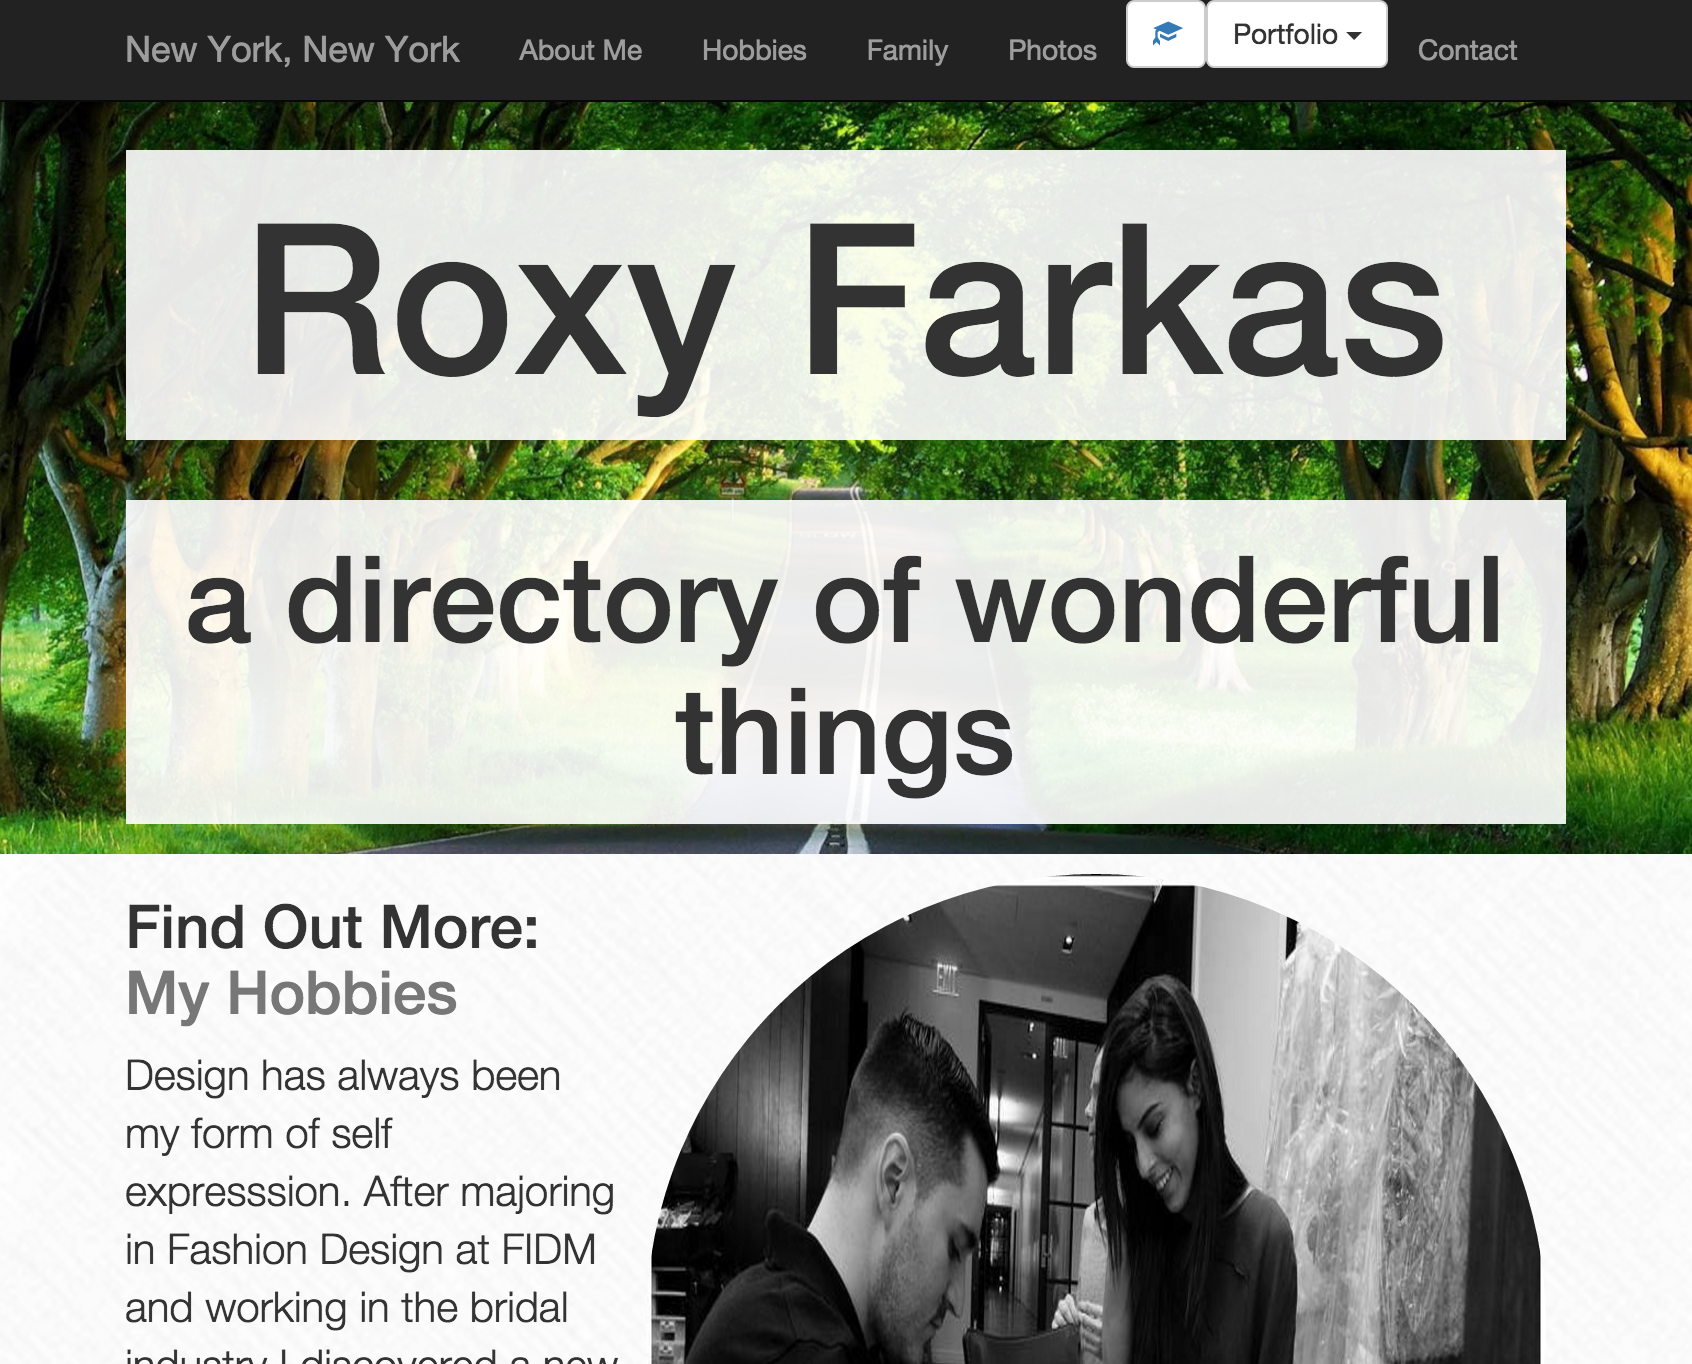
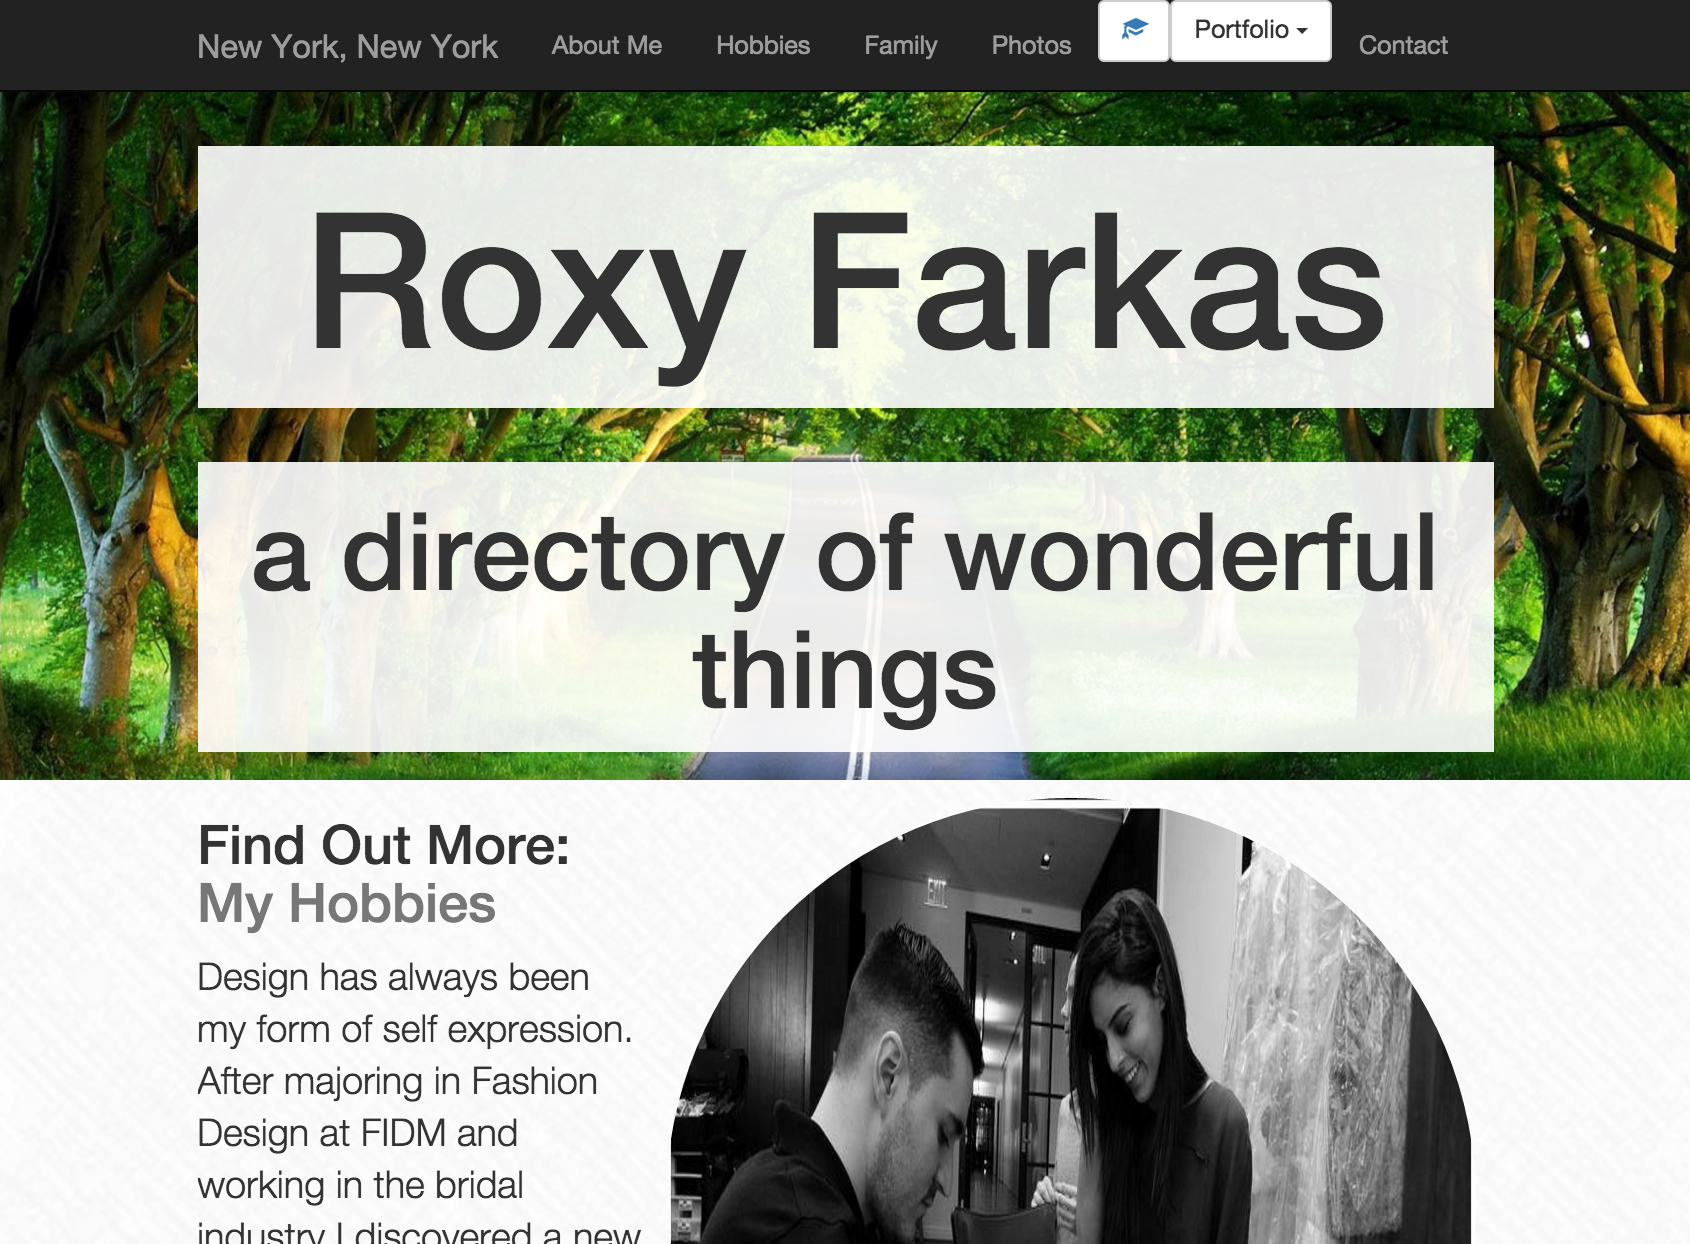
AJs Corrections for spelling

diff --git a/index.html b/index.html
@@ -264,8 +264,8 @@
 							<div class="iconboxleft-text">
 								<h3 class="iconboxleft-title">Education</h3>
 								<div class="iconboxleft-desc">
-									Fashion Institute of Design and Merchandising - A.A <br>
-									Fordham University Lincoln Center-B.A
+									Fashion Institute of Design and Merchandising - A.A. <br>
+									Fordham University Lincoln Center-B.A.
 								</div>
 							</div>
 						</div>
@@ -301,7 +301,7 @@
 							<div class="iconboxleft-text">
 								<h3 class="iconboxleft-title">Design</h3>
 								<div class="iconboxleft-desc">
-									My background in design allows me to approach the creative process in a unique way, with beautiful designs created to provide the most optimal user experience.
+									My background in design allows me to approach the creative process in a unique way, with beautiful designs created to provide the optimal user experience.
 								</div>
 							</div>
 						</div>
@@ -317,7 +317,7 @@
 							<div class="iconboxleft-text">
 								<h3 class="iconboxleft-title">Coding</h3>
 								<div class="iconboxleft-desc">
-									Currently studying front end development at The Fullstack Academy of Code.
+									Currently studying front-end development at The Fullstack Academy of Code.
 								</div>
 							</div>
 						</div>
